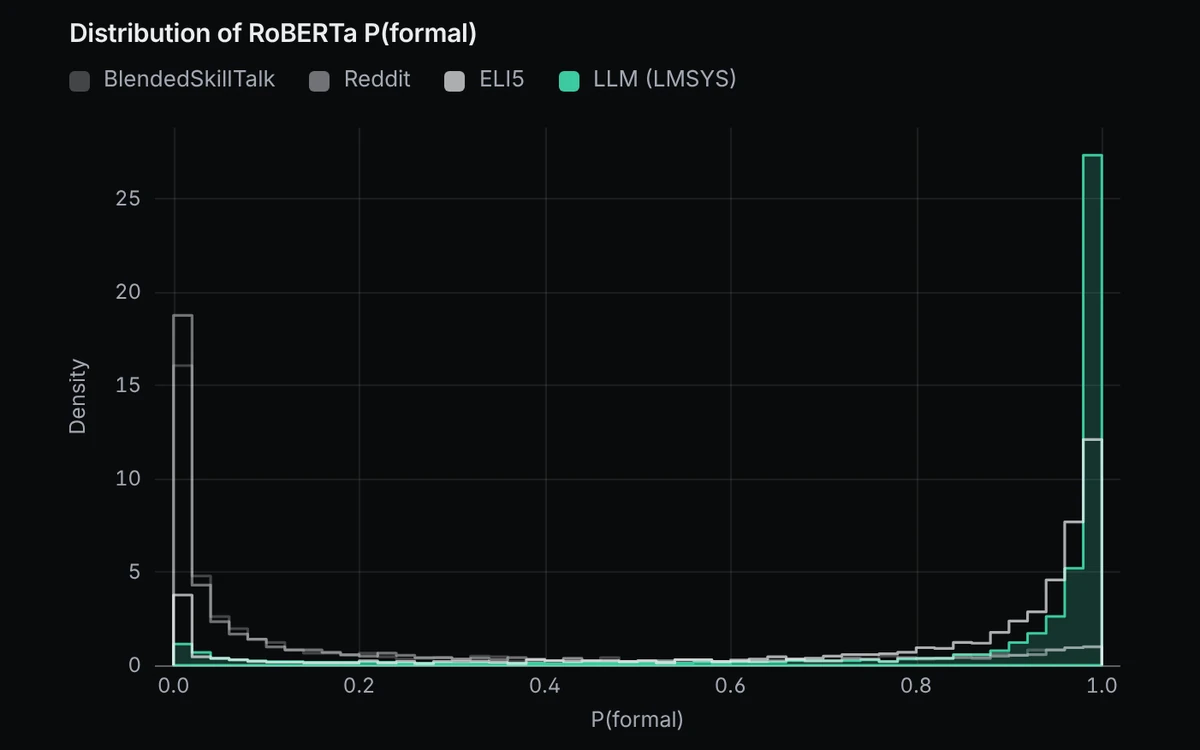
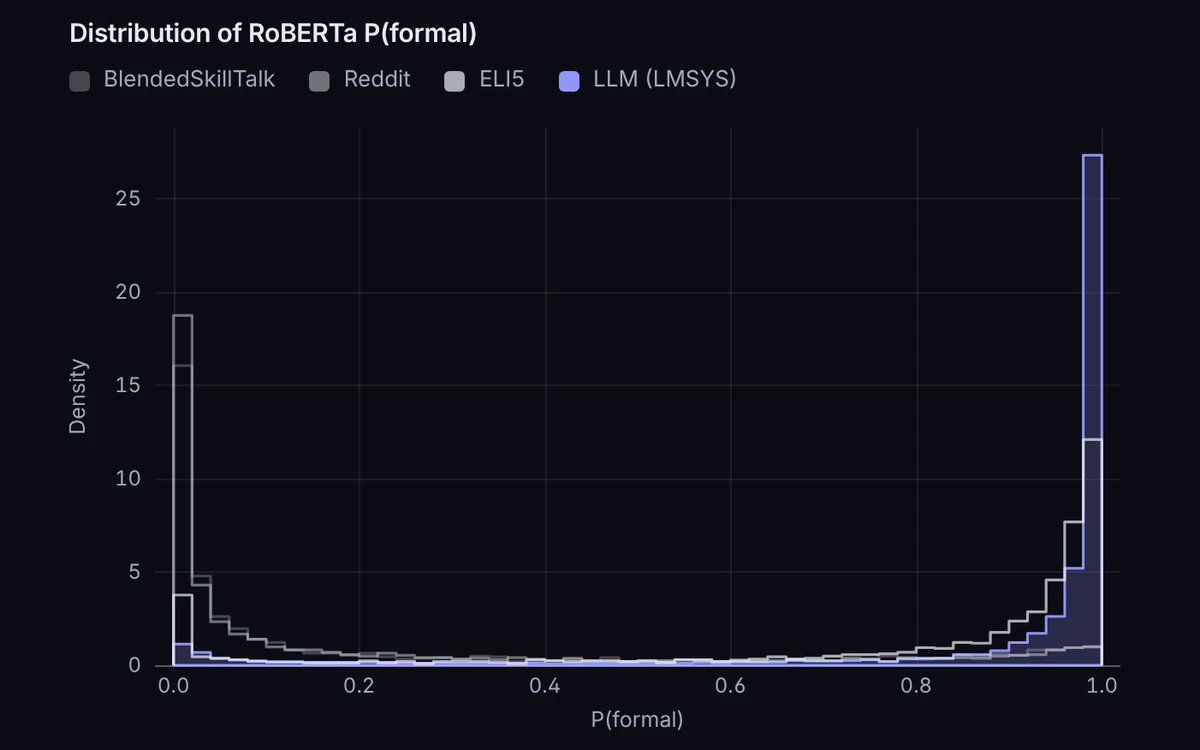
New site palette: indigo
- Cool blue-grey neutrals with an indigo accent (#3b3fd8 light,
  #9095ff dark), replacing the teal-green shared with Easy-Sched
- Every text/accent pairing meets WCAG AA in both modes (body text
  15-18:1, muted 5.8-8.2:1, accent 6.1-7.3:1)
- Browser theme-color updated; Formality figure images recaptured in
  the new palette for the Work and Home pages

Changed region(s): [[0.1233, 0.184, 0.925, 0.8893], [0.4625, 0.092, 0.4933, 0.1227]]

diff --git a/src/index.css b/src/index.css
@@ -14,35 +14,36 @@
 
 :root {
     color-scheme: light;
-    --color-bg-canvas: #f3f3ef;
-    --color-bg-card: #e9e9e3;
+    /* Indigo: cool blue-grey neutrals, one indigo accent (distinct from Easy-Sched's teal-green). */
+    --color-bg-canvas: #f5f6f9;
+    --color-bg-card: #eaecf2;
     --color-bg-raised: #ffffff;
-    --color-text-main: #0b0c0e;
-    --color-text-muted: #545963;
-    --color-border: #d9d9d2;
-    --color-accent-base: #086b52;
+    --color-text-main: #0e1120;
+    --color-text-muted: #525a6e;
+    --color-border: #d8dbe4;
+    --color-accent-base: #3b3fd8;
     --color-accent-ink-base: #ffffff;
-    --color-accent-soft-base: #d7ece4;
+    --color-accent-soft-base: #e1e2fb;
     /* the inverse field: a section set in the opposite colours */
-    --color-field: #0b0c0e;
-    --color-field-ink: #ecedf0;
-    --color-field-muted: #a3a8b3;
+    --color-field: #0e1120;
+    --color-field-ink: #e8eaf2;
+    --color-field-muted: #a2a8ba;
 }
 
 html[data-theme="dark"] {
     color-scheme: dark;
-    --color-bg-canvas: #0a0b0d;
-    --color-bg-card: #131519;
-    --color-bg-raised: #1a1d22;
-    --color-text-main: #ecedf0;
-    --color-text-muted: #a3a8b3;
-    --color-border: #262a31;
-    --color-accent-base: #3ccaa0;
-    --color-accent-ink-base: #04150f;
-    --color-accent-soft-base: #10302a;
-    --color-field: #ecebe5;
-    --color-field-ink: #0b0c0e;
-    --color-field-muted: #545963;
+    --color-bg-canvas: #0b0d14;
+    --color-bg-card: #141724;
+    --color-bg-raised: #1c2030;
+    --color-text-main: #e8eaf2;
+    --color-text-muted: #a2a8ba;
+    --color-border: #262b3b;
+    --color-accent-base: #9095ff;
+    --color-accent-ink-base: #0b0d1f;
+    --color-accent-soft-base: #1f2250;
+    --color-field: #e9ebf2;
+    --color-field-ink: #0e1120;
+    --color-field-muted: #525a6e;
 }
 
 @theme inline {

diff --git a/index.html b/index.html
@@ -18,8 +18,8 @@
     <link rel="preconnect" href="https://fonts.gstatic.com" crossorigin />
     <link href="https://fonts.googleapis.com/css2?family=Geist:wght@400;500;600;700&family=Geist+Mono:wght@400;500&display=swap" rel="stylesheet" />
     <meta name="description" content="Oliver Krisetya, software engineer. Systems, machine learning and full-stack products, including Easy-Sched, an optimal TA-assignment platform." />
-    <meta name="theme-color" content="#f3f3ef" media="(prefers-color-scheme: light)" />
-    <meta name="theme-color" content="#0a0b0d" media="(prefers-color-scheme: dark)" />
+    <meta name="theme-color" content="#f5f6f9" media="(prefers-color-scheme: light)" />
+    <meta name="theme-color" content="#0b0d14" media="(prefers-color-scheme: dark)" />
     <link rel="icon" type="image/svg+xml" href="/logo.png" />
     <meta name="viewport" content="width=device-width, initial-scale=1.0" />
     <title>Oliver Krisetya, software engineer</title>
